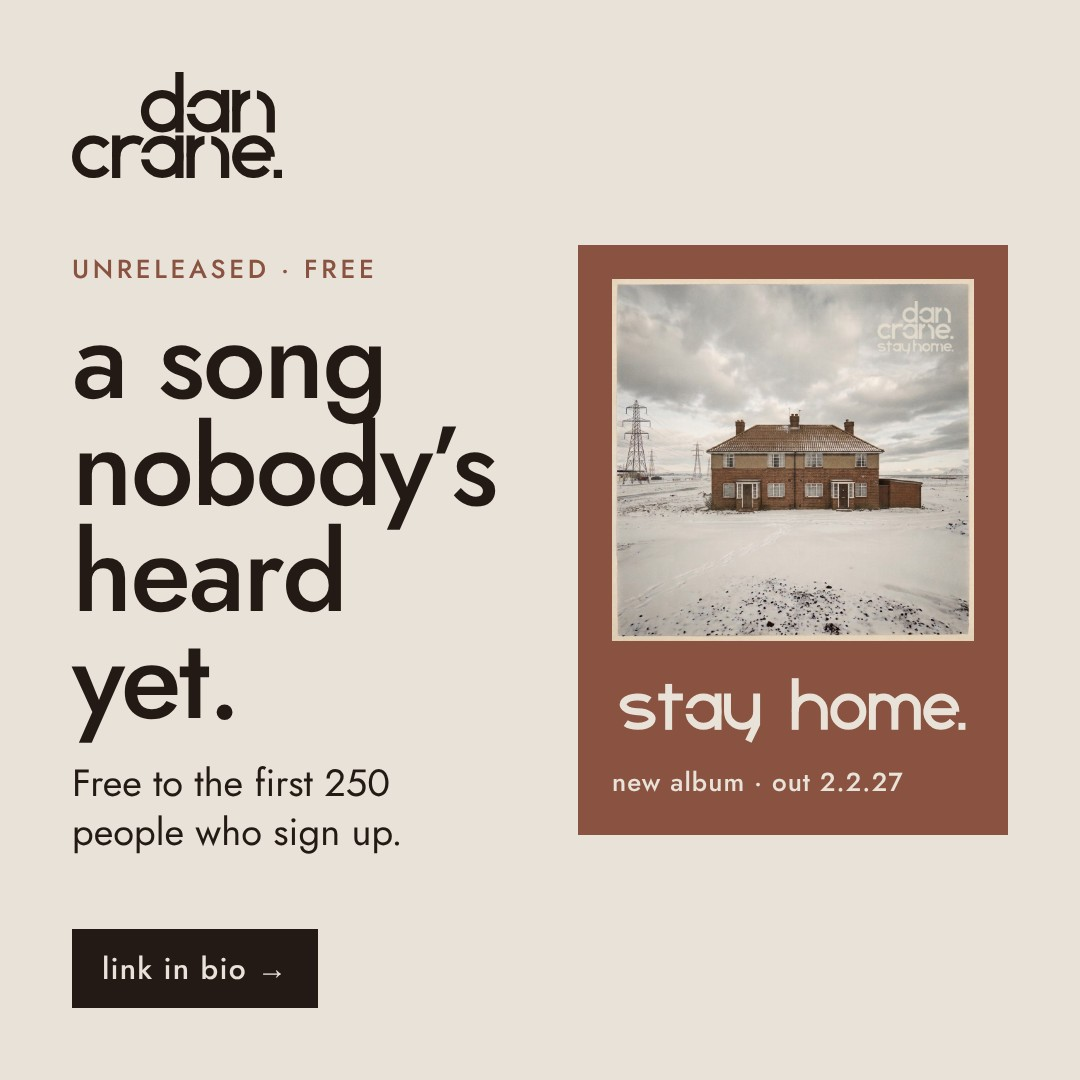
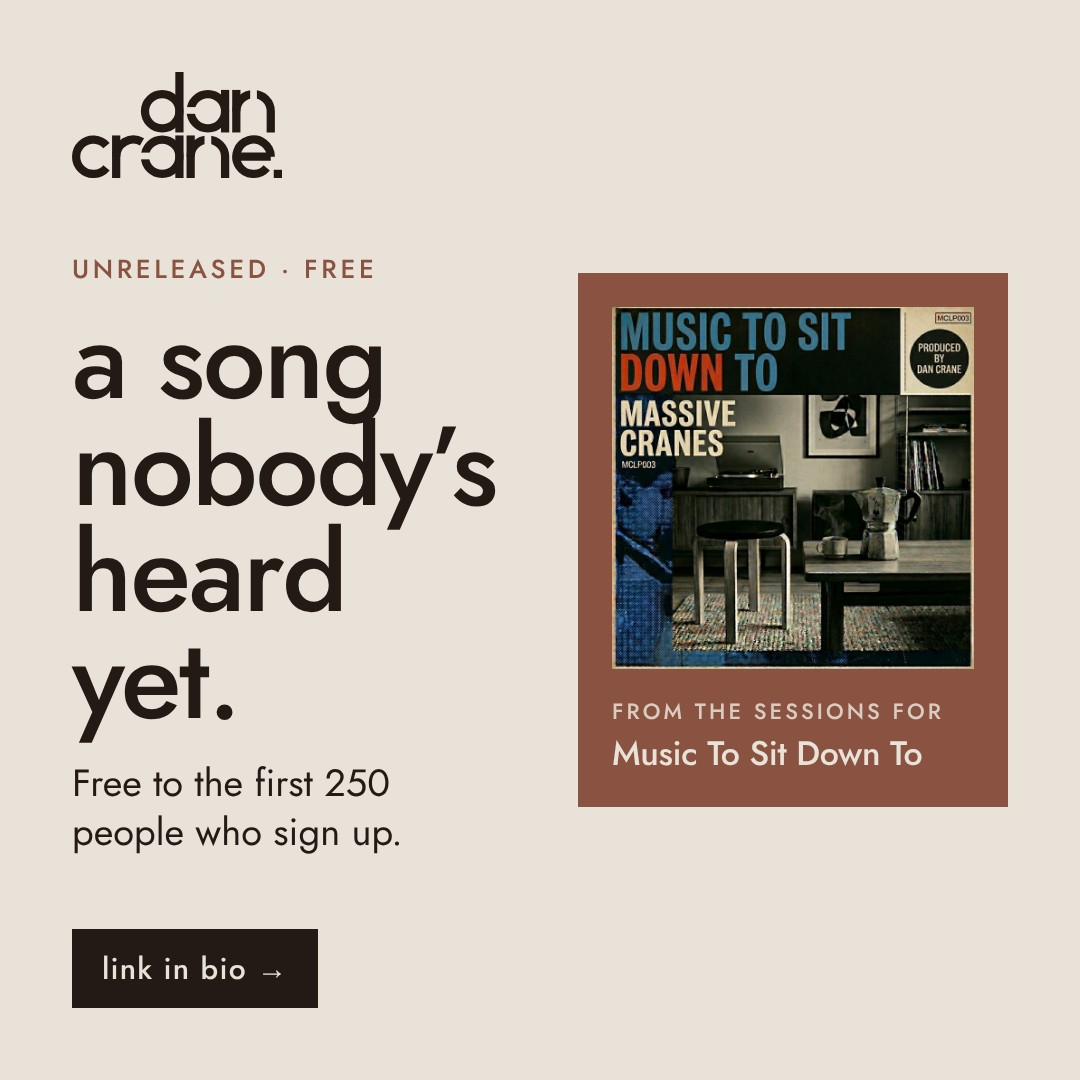
Giveaway: use the Music To Sit Down To cover and name the sessions
The free song is from the Music To Sit Down To sessions, so the
Instagram images and the site's intro line now say so.

Claude-Session: https://claude.ai/code/session_01N2hXkadpFiq2vvVW9uzQbX

Changed region(s): [[0.5194, 0.2139, 0.9472, 0.7944]]

diff --git a/tools/giveaway-template.html b/tools/giveaway-template.html
@@ -16,13 +16,16 @@
   .box { background: var(--brick); color: var(--paper); padding: 34px; }
   .box img.cover { width: 100%; display: block; aspect-ratio: 1; object-fit: cover; }
   .box img.title { display: block; width: 100%; margin-top: 26px; }
-  .box p { margin: 14px 0 0; font-weight: 500; font-size: 26px; letter-spacing: .04em; }
+  .box p { margin: 0; }
+  .box .from { margin-top: 26px; font-weight: 500; font-size: 22px; letter-spacing: .14em; text-transform: uppercase; opacity: .85; }
+  .box .album { margin-top: 8px; font-weight: 500; font-size: 40px; line-height: 1.1; letter-spacing: -.01em; }
 
   /* square post: words left, brick box right */
   .post { height: 1080px; display: grid; grid-template-columns: 1fr 430px; gap: 56px; align-items: stretch; }
   .post .words { display: flex; flex-direction: column; }
   .post .mid { margin-top: auto; margin-bottom: auto; }
   .post .box { align-self: center; }
+  .post .box .album { font-size: 34px; }
 
   /* story: stacked, keeps top and bottom 250px clear for Instagram's own buttons */
   .story { height: 1920px; padding: 210px 90px 250px; }
@@ -37,8 +40,8 @@
 <div id="root"></div>
 <script>
   var story = new URLSearchParams(location.search).get("format") === "story";
-  var box = '<div class="box"><img class="cover" src="../assets/cover/stay-home.jpg" alt="">' +
-            '<img class="title" src="../assets/brand/stay-home-title-light.svg" alt=""><p>new album · out 2.2.27</p></div>';
+  var box = '<div class="box"><img class="cover" src="../assets/releases/music-to-sit-down-to.jpg" alt="">' +
+            '<p class="from">from the sessions for</p><p class="album">Music To Sit Down To</p></div>';
   var words = '<div class="mid"><p class="kicker">unreleased · free</p><h1>' + (story ? 'a song nobody’s<br>heard yet.' : 'a song<br>nobody’s<br>heard yet.') + '</h1>' +
               '<p class="sub">Free to the first 250 people who sign up.</p></div>';
   var foot = '<div class="foot"><span class="tag">link in bio →</span></div>';

diff --git a/content.js b/content.js
@@ -242,7 +242,7 @@ window.EPK = {
   giveaway: {
     show: true,
     title: "free song.",
-    text: "An unreleased song, free to the first 250 people who sign up. Leave your email and it's yours.",
+    text: "An unreleased song from the Music To Sit Down To sessions, free to the first 250 people who sign up. Leave your email and it's yours.",
   },
 
   // ── CONTACT ──────────────────────────────────────────────────
